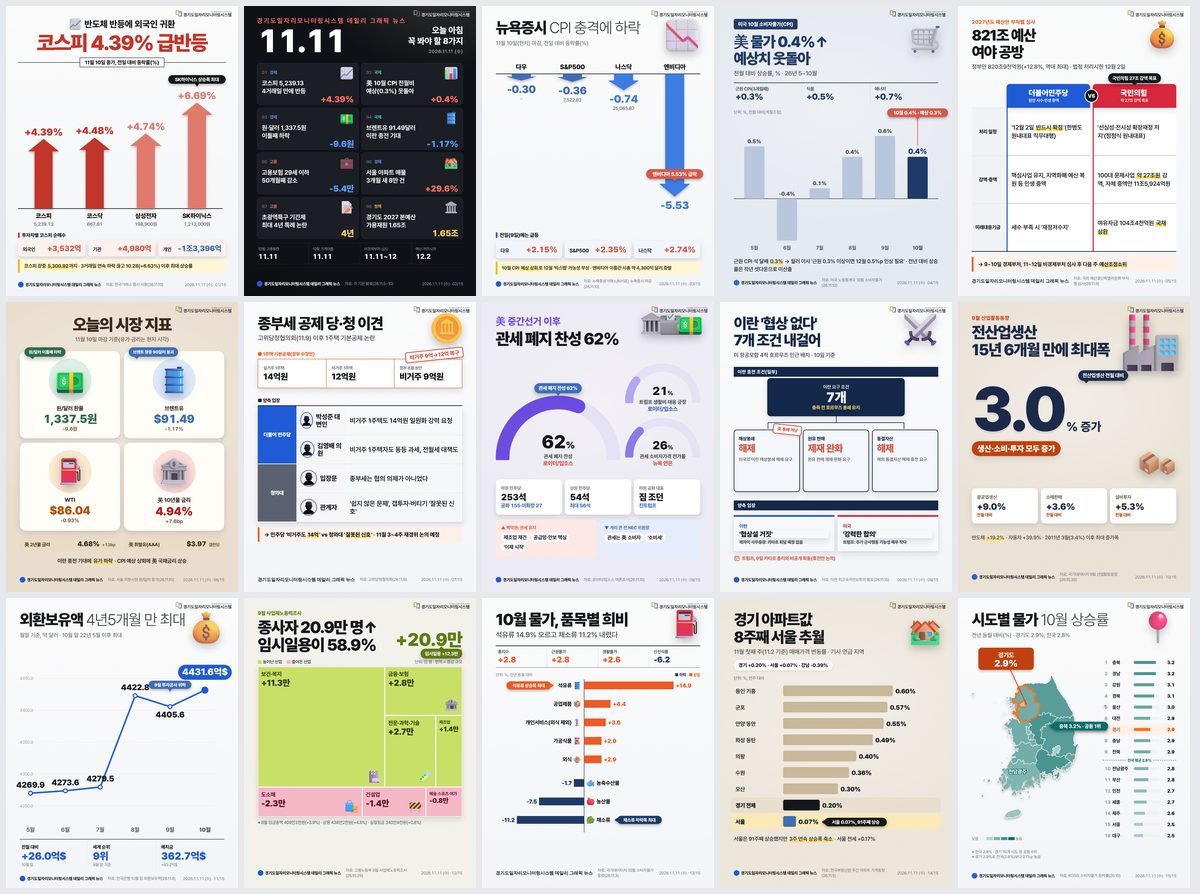
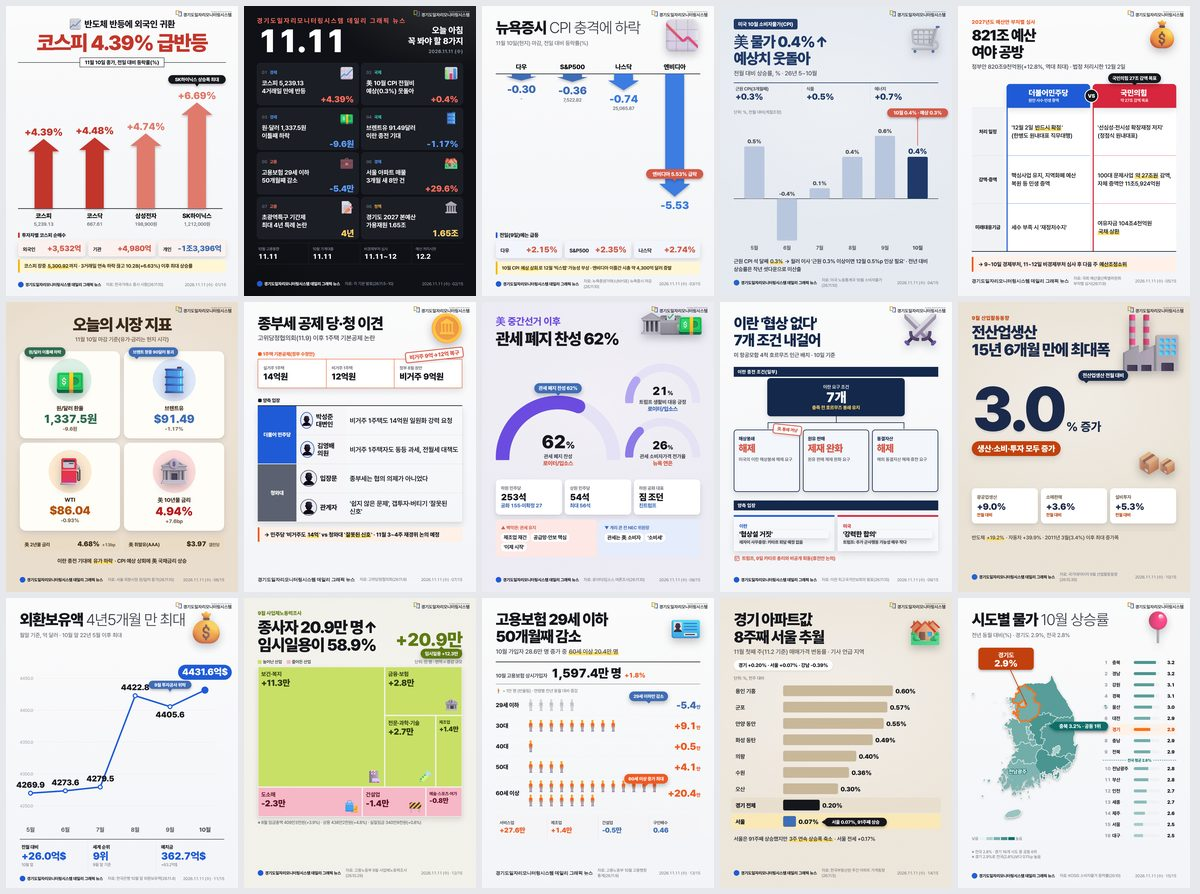
261111 웹페이지 수정(13번 교체)
Claude-Session: https://claude.ai/code/session_015uJhCRkLd55wdSMQ4LRrFS

diff --git a/daily/2026-11-11/index.html b/daily/2026-11-11/index.html
@@ -14,7 +14,7 @@
 <li><span class="n">10</span><div><b>9월 전산업생산 3.0% 증가</b><span class="s"><a href="https://biz.heraldcorp.com/article/10919919" target="_blank" rel="noopener">국가데이터처 9월 산업활동동향(26.10.30)</a></span></div></li>
 <li><span class="n">11</span><div><b>외환보유액 4,431.6억 달러</b><span class="s"><a href="https://www.hankyung.com/article/2026110463191" target="_blank" rel="noopener">한국은행 10월 말 외환보유액(26.11.4)</a></span></div></li>
 <li><span class="n">12</span><div><b>9월 사업체 종사자 20.9만 명 증가</b><span class="s"><a href="https://www.ajunews.com/view/20261029092919466" target="_blank" rel="noopener">고용노동부 9월 사업체노동력조사(26.10.29)</a></span></div></li>
-<li><span class="n">13</span><div><b>10월 품목별 물가, 석유류 14.9%↑</b><span class="s"><a href="https://www.etoday.co.kr/news/view/2643300" target="_blank" rel="noopener">국가데이터처 10월 소비자물가동향(26.11.3)</a></span></div></li>
+<li><span class="n">13</span><div><b>고용보험 29세 이하 50개월째 감소</b><span class="s"><a href="https://www.etoday.co.kr/news/view/2645743" target="_blank" rel="noopener">고용노동부 10월 고용행정 통계(26.11.9)</a></span></div></li>
 <li><span class="n">14</span><div><b>경기 아파트값 8주째 서울 추월</b><span class="s"><a href="https://www.segye.com/newsView/20261105516046" target="_blank" rel="noopener">한국부동산원 주간 아파트 가격동향(26.11.5)</a></span></div></li>
 <li><span class="n">15</span><div><b>시도별 소비자물가 경기 2.9%</b><span class="s"><a href="https://kosis.kr/statHtml/statHtml.do?orgId=101&amp;tblId=DT_1YL20581&amp;vw_cd=MT_ZTITLE&amp;list_id=&amp;seqNo=&amp;lang_mode=ko&amp;language=kor&amp;obj_var_id=&amp;itm_id=&amp;conn_path=MT_ZTITLE" target="_blank" rel="noopener">KOSIS 소비자물가 등락률(26.10)</a></span></div></li>
 </ol><div class="cta"><div>경기도 31개 시군 일자리 통계는 경기도일자리모니터링시스템에서 확인하세요</div><a class="btn" href="https://stats.gjf.or.kr" target="_blank" rel="noopener">stats.gjf.or.kr 바로가기</a></div>
